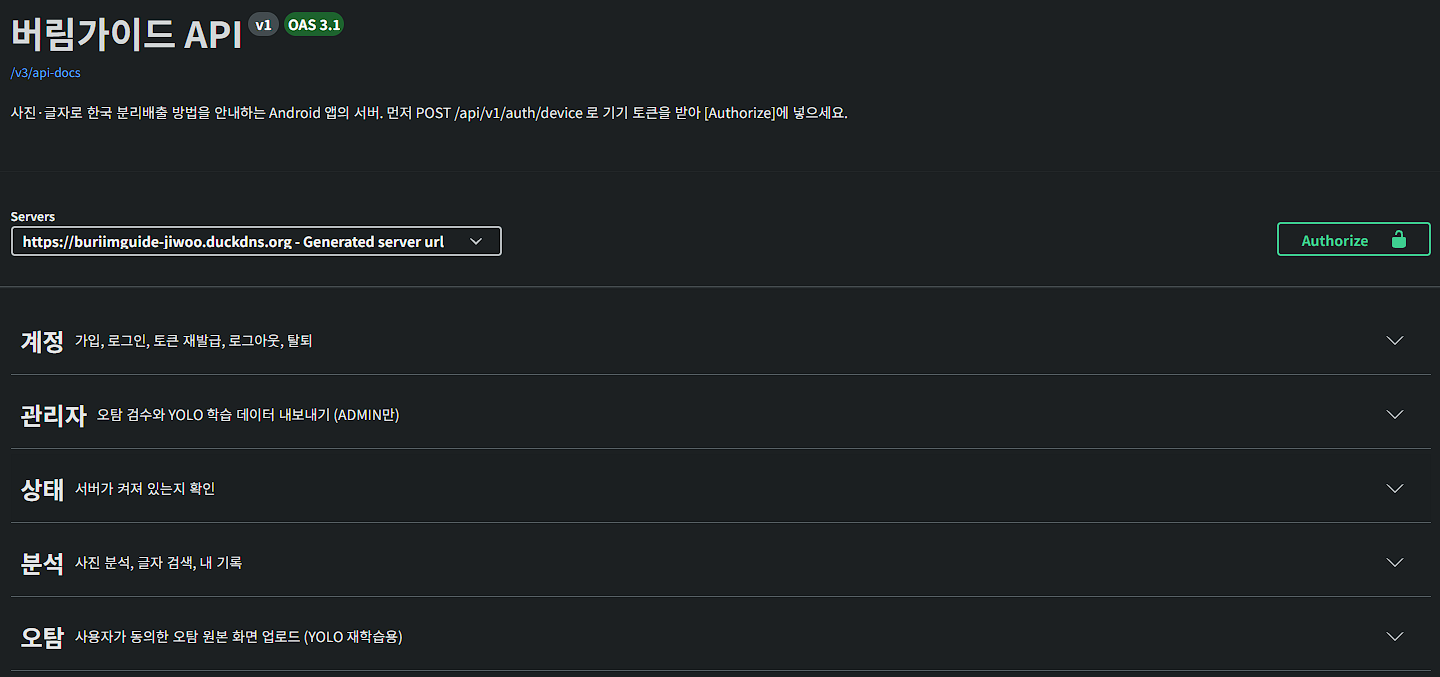
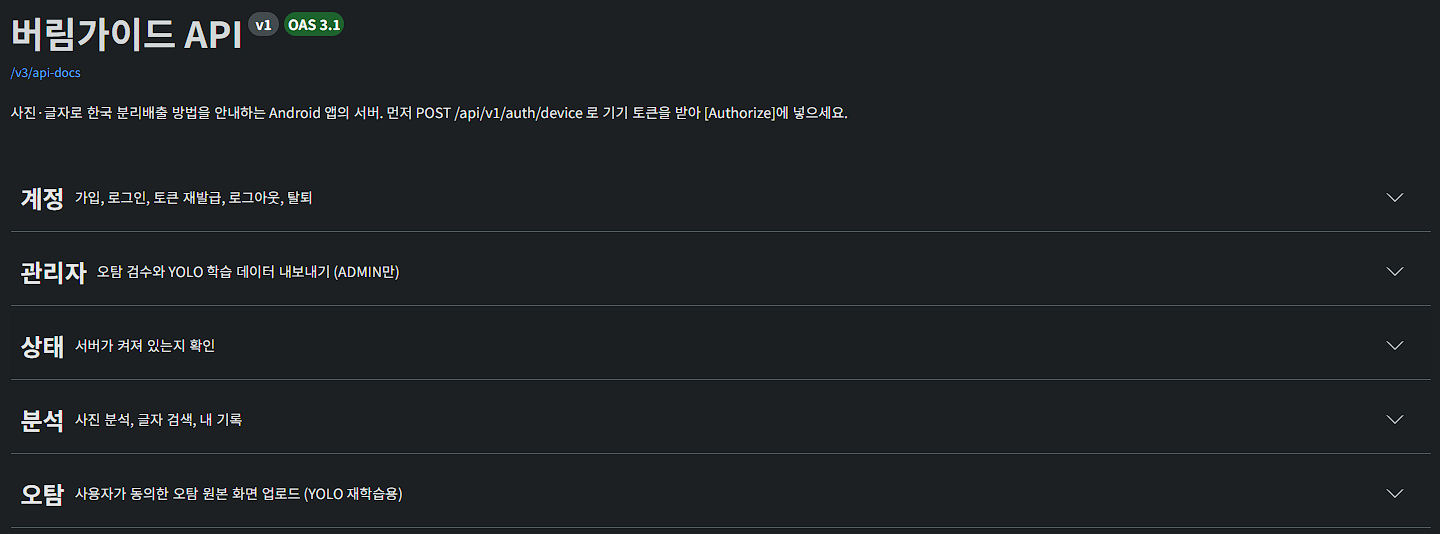
README에서 운영 주소 비공개 처리

diff --git a/README.md b/README.md
@@ -6,8 +6,7 @@ Android 앱 **[버림가이드](https://github.com/eovk01100-wq/WasteSortingApp)
 앱에 있던 Gemini 호출을 서버로 옮겨 **API 키를 휴대폰에서 없애고**, 분석 기록·계정·검색 캐시를 관리하며,
 온디바이스 YOLO가 틀린 사진을 모아 **사람이 검수한 뒤 재학습 데이터(YOLO 형식 ZIP)로 내보내는** 흐름을 담당합니다.
 
-- 운영 주소: `https://buriimguide-jiwoo.duckdns.org`
-- API 문서(Swagger): `https://buriimguide-jiwoo.duckdns.org/swagger-ui/index.html`
+- AWS EC2(서울)에 HTTPS로 배포해 실제 앱이 사용 중입니다. 운영 주소와 운영 Swagger는 비공개이며, 화면은 아래 사진으로 대신합니다.
 
 ## 기술 스택
 
